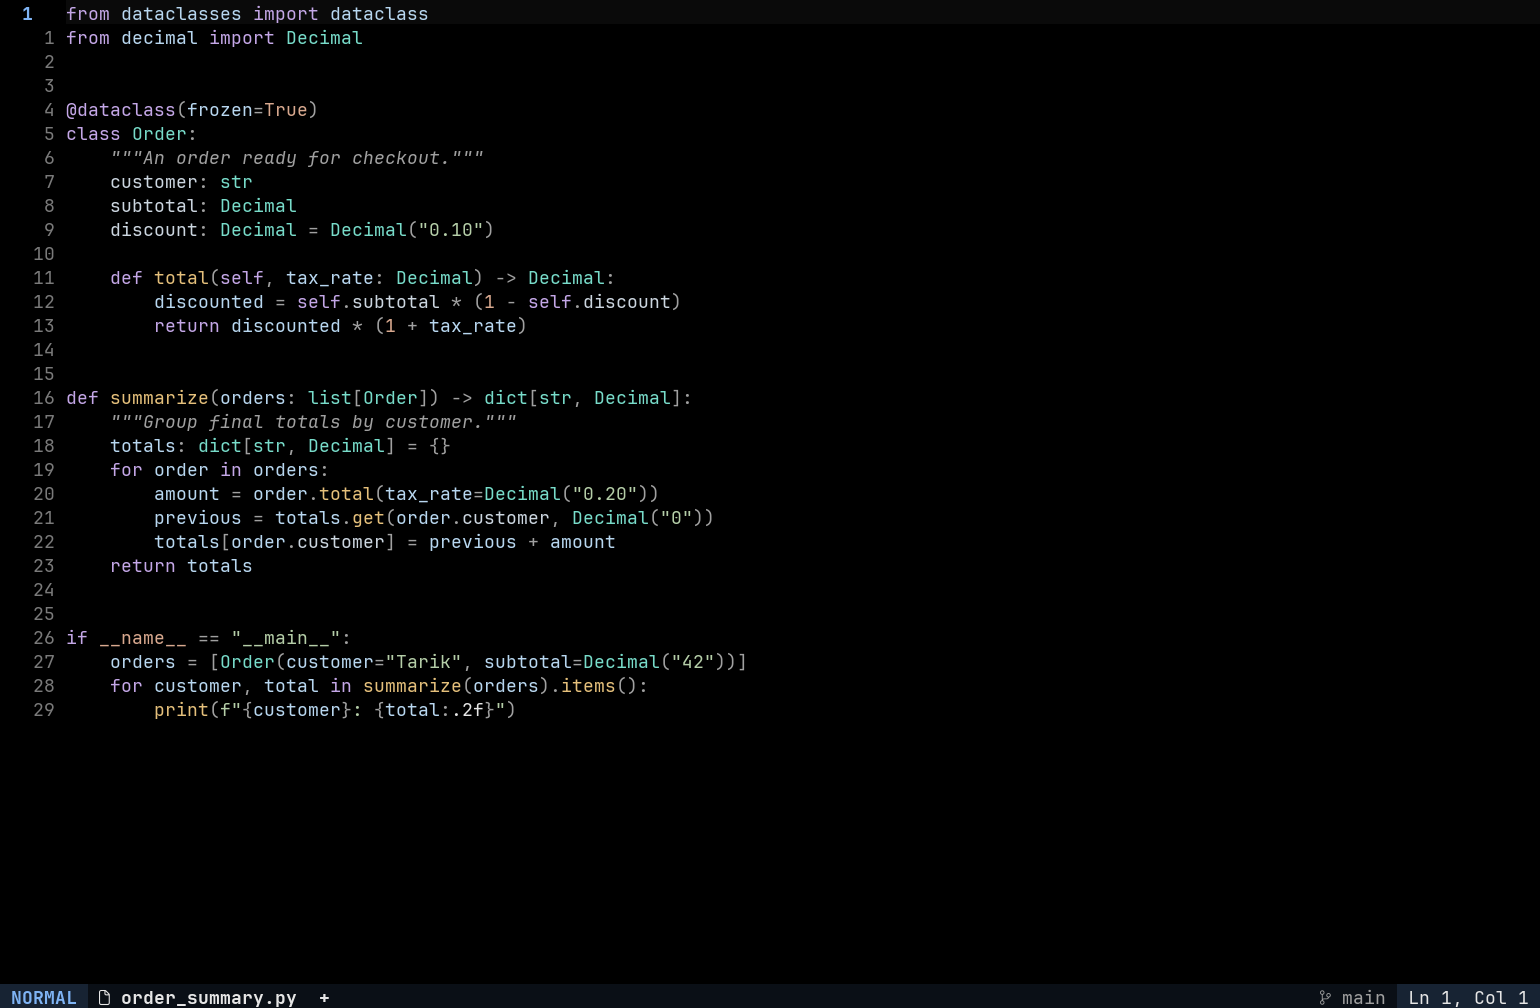
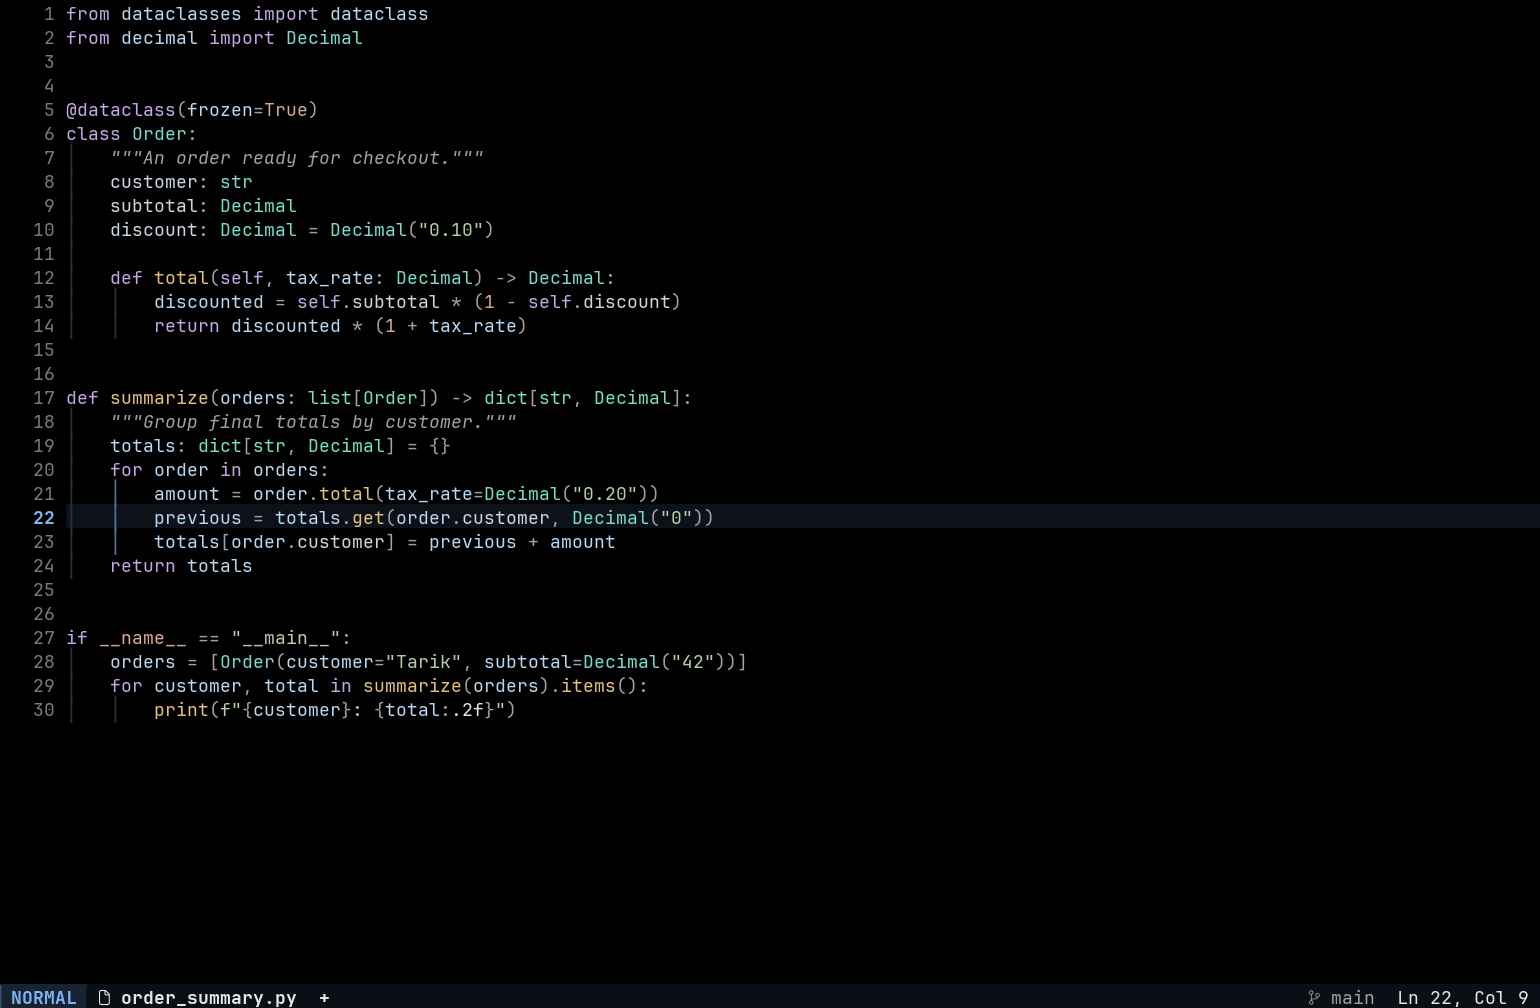
Refine file-browser spacing and Python scope visibility with responsive layout checks

Changed region(s): [[0.0312, 0.4921, 1.0, 0.5228], [0.8416, 0.9534, 1.0, 1.0]]

diff --git a/nvim/tests/ui_review.py b/nvim/tests/ui_review.py
@@ -162,6 +162,19 @@ for width,height in [(80,24),(140,42)]:
  call('nvim_input',['<Esc>']);pump(.5)
  print('DOCS / COMMAND',width,height,'open, scroll, close and geometry PASS',flush=True)
 
+call('nvim_exec_lua',["_G.layoutdir=vim.fn.tempname(); vim.fn.mkdir(layoutdir..'/parent/long_directory_name_for_title','p')",[]])
+for width,height in [(140,42),(80,24),(100,30),(140,42)]:
+ call('nvim_ui_try_resize',[width,height]);pump(.2)
+ call('nvim_exec_lua',["local f=require('mini.files'); if not f.get_explorer_state() then f.open(layoutdir,true,require('config.tool_layout').files()) end; f.set_branch({layoutdir,layoutdir..'/parent',layoutdir..'/parent/long_directory_name_for_title'}); f.refresh(require('config.tool_layout').files())",[]]);pump(.3)
+ for repeat in range(3):
+  wins=call('nvim_exec_lua',["local s=require('mini.files').get_explorer_state(); local out={}; for _,w in ipairs(s.windows) do require('config.tool_layout').decorate_files({data={win_id=w.win_id}}); local c=vim.api.nvim_win_get_config(w.win_id); out[#out+1]={row=c.row,col=c.col,width=c.width,height=c.height,title=c.title} end return out",[]])
+  assert len(wins)==(1 if width<100 else 3),wins
+  for w in wins: assert w['col']>=0 and w['row']>=1 and w['col']+w['width']+2<=width and w['row']+w['height']+2<height,w
+  for left,right in zip(wins,wins[1:]): assert left['col']+left['width']+2<=right['col'],wins
+  if repeat: assert wins==previous,'layout drift'
+  previous=wins
+ print('BROWSER',width,height,'bounds, columns, no overlap/drift PASS',flush=True)
+call('nvim_exec_lua',["require('mini.files').close(); vim.fn.delete(layoutdir,'rf')",[]])
 print('PLUGIN INTEGRATION',call('nvim_exec_lua',["return dofile('nvim/tests/plugins_review.lua')",[]]),flush=True)
 call('nvim_exec_lua',["vim.schedule(function() require('config.pick').open('files',{cwd=plugin_review.dir}) end)",[]]);pump(.7)
 call('nvim_input',['renamed']);pump(.5)

diff --git a/nvim/DESIGN.md b/nvim/DESIGN.md
@@ -288,3 +288,17 @@ without a complete frame. The active buffer uses a blue vertical marker and fill
 selected surface; the label stays bold and readable. The existing raised mode
 indicator remains the only beveled control. These are static highlights and glyphs:
 no animations, new plugins, shadow windows or extra persistent chrome rows.
+
+## Python and browser spacing refinement
+
+Mini Files keeps its temporary column-browser model but now uses short directory
+names in titles, two-cell outer margins when space permits, and blank side/bottom
+padding. Panels begin below the screen edge and stop at 18 content rows; long
+folders scroll. Narrow screens keep one column. Layout coordinates are derived
+from the current window widths, so repeated updates do not accumulate offsets.
+Python's cursor line has a slightly clearer blue-grey fill. Indent guides stay
+quiet, with a brighter muted-blue active scope and no animation. Syntax colors
+remain unchanged: structure is easier to follow without adding color categories.
+
+Indent guides also initialize for new unsaved code buffers; the upstream default
+starts on file reads, which missed the dashboard-to-new-buffer workflow.

diff --git a/nvim/README.md b/nvim/README.md
@@ -19,10 +19,19 @@ Search and file panels use a single top rule; the active tab has a blue marker.
 
 ![Command bar](assets/command.png)
 
-These actual UI-grid captures show the retained editing surfaces from the previous
-release. The documentation image uses a demo completion source. The new Mini Pick
+These are actual UI-grid captures. The Python and browser images show this
+revision; documentation and command images retain the previous editing surfaces.
+The documentation image uses a demo completion source. The new Mini Pick
 and Aerial layouts are tested at narrow and wide sizes; older Snacks picker images
 are intentionally no longer presented as current UI.
+
+## File browser beside Python
+
+![Python and compact file browser](assets/python-files.png)
+
+Mini Files uses short directory titles, padded columns and an 18-row cap. Open
+with `<leader>e`; `h`/`l` navigate, `q` closes, and `=` synchronizes file edits.
+Python has a clearer active line and quiet active-scope guides.
 
 ## The smaller workflow
 
